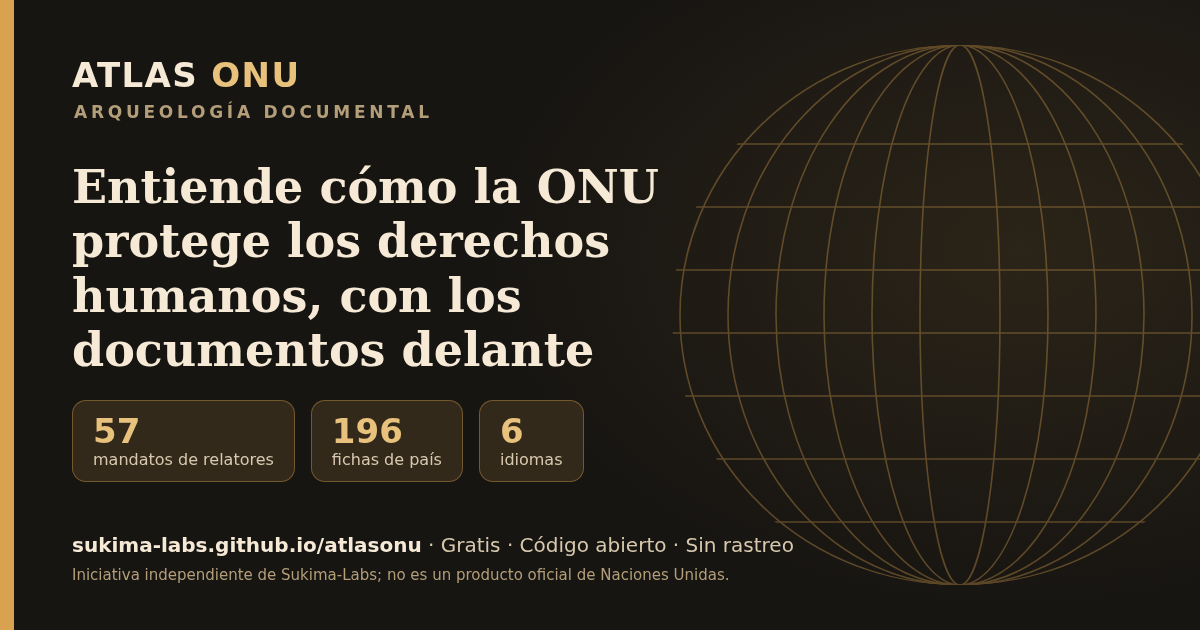
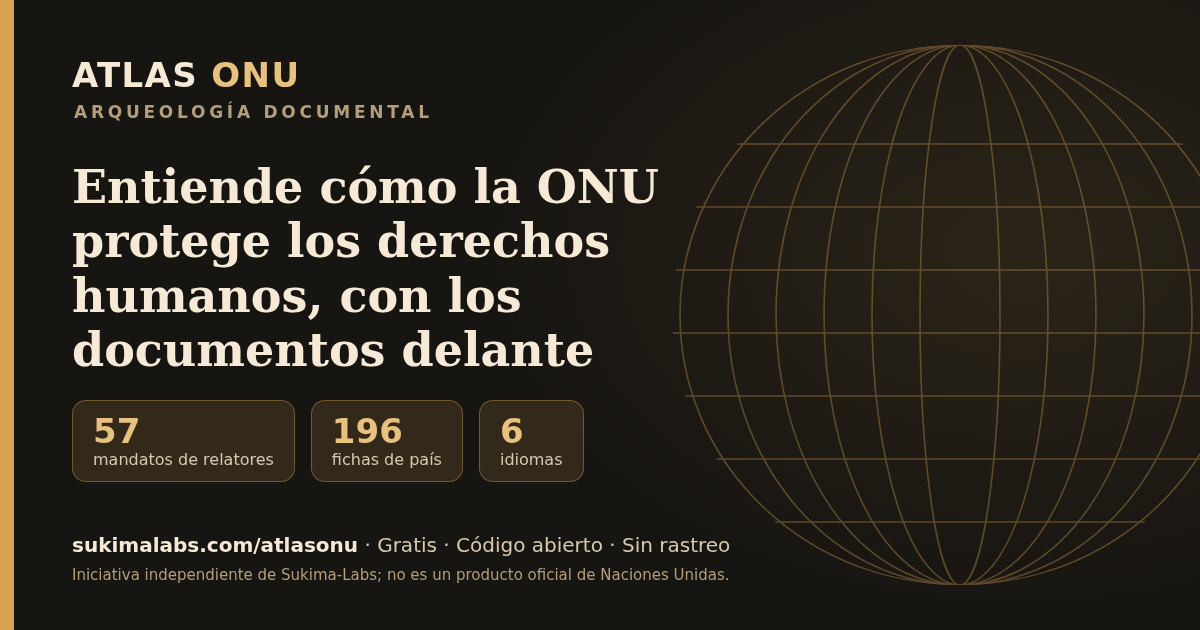
La web pasa a https://sukimalabs.com/atlasonu/: canonical, og, sitemap, robots, citas, docs, marketing e imagen social

Changed region(s): [[0.1233, 0.8444, 0.6783, 0.8746]]

diff --git a/index.html b/index.html
@@ -6,12 +6,12 @@ document.open();document.write('<!DOCTYPE html><html lang="es"><head><meta chars
 var f=document.getElementById('marcoMovil');mide();f.src=u;window.addEventListener('resize',mide);window.addEventListener('message',function(e){if(e.source!==f.contentWindow||!e.data||e.data.atlas!=='hash')return;try{history.replaceState(null,'',location.href.split('#')[0]+(e.data.h||''))}catch(x){}});
 }catch(e){}})();</script><meta name="theme-color" content="#191714"><meta name="color-scheme" content="dark"><title>Atlas ONU · Arqueología documental</title>
 <meta name="description" content="Cómo protege la ONU los derechos humanos, con los documentos delante: mandatos de relatores, tratados, la ficha de cada país, historia y siglas, en lenguaje claro y con enlace a cada fuente oficial. Gratis, sin cuentas ni rastreo.">
-<link rel="canonical" href="https://sukima-labs.github.io/atlasonu/">
+<link rel="canonical" href="https://sukimalabs.com/atlasonu/">
 <meta property="og:type" content="website"><meta property="og:site_name" content="ATLAS ONU"><meta property="og:title" content="ATLAS ONU · Derechos humanos en la ONU, con los documentos delante">
-<meta property="og:description" content="Cómo protege la ONU los derechos humanos, con los documentos delante: mandatos de relatores, tratados, la ficha de cada país, historia y siglas, en lenguaje claro y con enlace a cada fuente oficial. Gratis, sin cuentas ni rastreo."><meta property="og:url" content="https://sukima-labs.github.io/atlasonu/"><meta property="og:locale" content="es_ES">
-<meta property="og:image" content="https://sukima-labs.github.io/atlasonu/assets/social/atlas-onu-og.png"><meta property="og:image:width" content="1200"><meta property="og:image:height" content="630"><meta property="og:image:alt" content="ATLAS ONU, arqueología documental: «Entiende cómo la ONU protege los derechos humanos, con los documentos delante». Mandatos de relatores, fichas de país y seis idiomas.">
-<meta name="twitter:card" content="summary_large_image"><meta name="twitter:image" content="https://sukima-labs.github.io/atlasonu/assets/social/atlas-onu-og.png"><meta name="twitter:image:alt" content="ATLAS ONU, arqueología documental: «Entiende cómo la ONU protege los derechos humanos, con los documentos delante». Mandatos de relatores, fichas de país y seis idiomas.">
-<script type="application/ld+json">{"@context":"https://schema.org","@type":"WebSite","name":"ATLAS ONU","url":"https://sukima-labs.github.io/atlasonu/","inLanguage":["es","en","fr","ar","zh","ru"],"description":"Cómo protege la ONU los derechos humanos, con los documentos delante: mandatos de relatores, tratados, la ficha de cada país, historia y siglas, en lenguaje claro y con enlace a cada fuente oficial. Gratis, sin cuentas ni rastreo.","publisher":{"@type":"Organization","name":"Sukima-Labs"},"license":"https://creativecommons.org/licenses/by/4.0/"}</script><link rel="icon" href="assets/marca/favicon.ico" sizes="32x32"><link rel="icon" type="image/png" sizes="16x16" href="assets/marca/favicon_16.png"><link rel="icon" type="image/png" sizes="32x32" href="assets/marca/favicon_32.png"><link rel="apple-touch-icon" href="assets/marca/apple_touch_icon_180.png">
+<meta property="og:description" content="Cómo protege la ONU los derechos humanos, con los documentos delante: mandatos de relatores, tratados, la ficha de cada país, historia y siglas, en lenguaje claro y con enlace a cada fuente oficial. Gratis, sin cuentas ni rastreo."><meta property="og:url" content="https://sukimalabs.com/atlasonu/"><meta property="og:locale" content="es_ES">
+<meta property="og:image" content="https://sukimalabs.com/atlasonu/assets/social/atlas-onu-og.png"><meta property="og:image:width" content="1200"><meta property="og:image:height" content="630"><meta property="og:image:alt" content="ATLAS ONU, arqueología documental: «Entiende cómo la ONU protege los derechos humanos, con los documentos delante». Mandatos de relatores, fichas de país y seis idiomas.">
+<meta name="twitter:card" content="summary_large_image"><meta name="twitter:image" content="https://sukimalabs.com/atlasonu/assets/social/atlas-onu-og.png"><meta name="twitter:image:alt" content="ATLAS ONU, arqueología documental: «Entiende cómo la ONU protege los derechos humanos, con los documentos delante». Mandatos de relatores, fichas de país y seis idiomas.">
+<script type="application/ld+json">{"@context":"https://schema.org","@type":"WebSite","name":"ATLAS ONU","url":"https://sukimalabs.com/atlasonu/","inLanguage":["es","en","fr","ar","zh","ru"],"description":"Cómo protege la ONU los derechos humanos, con los documentos delante: mandatos de relatores, tratados, la ficha de cada país, historia y siglas, en lenguaje claro y con enlace a cada fuente oficial. Gratis, sin cuentas ni rastreo.","publisher":{"@type":"Organization","name":"Sukima-Labs"},"license":"https://creativecommons.org/licenses/by/4.0/"}</script><link rel="icon" href="assets/marca/favicon.ico" sizes="32x32"><link rel="icon" type="image/png" sizes="16x16" href="assets/marca/favicon_16.png"><link rel="icon" type="image/png" sizes="32x32" href="assets/marca/favicon_32.png"><link rel="apple-touch-icon" href="assets/marca/apple_touch_icon_180.png">
 <style>
 :root{font-family:Inter,system-ui,-apple-system,'Segoe UI',sans-serif;color:#f6ead7;background:#171512;font-size:14px}*{box-sizing:border-box}body{margin:0}button,input,select{font:inherit}a{color:#dbab63;text-decoration:none}a:hover{text-decoration:underline}button{cursor:pointer}.layout{display:grid;grid-template-columns:260px minmax(0,1fr);min-height:100vh}.side{background:#23201b;border-right:1px solid #463f36;padding:28px 17px;position:sticky;top:0;height:100vh;overflow:auto}.brand{font-size:25px;letter-spacing:-1.2px;font-weight:800;color:#fdfaf5}.brand b{color:#daaa63}.subbrand{font-size:11px;color:#c0ae8f;letter-spacing:1.6px;margin:4px 0 36px}.nav button{border:0;background:transparent;color:#cbbca3;display:flex;align-items:center;gap:12px;text-align:left;padding:14px 12px;border-radius:10px;width:100%;margin-bottom:5px;font-weight:600}.sc-tabs{margin:0 0 14px}.franja-dig{display:flex;flex-wrap:wrap;align-items:center;gap:6px 14px;padding:10px 16px;margin-top:26px}.franja-dig h3,.franja-dig p{margin:0}.franja-dig h3{font-size:14px}.franja-dig p{font-size:13px}.nav-grupo{font-size:11px;font-weight:800;letter-spacing:.09em;text-transform:uppercase;color:#a89878;padding:14px 12px 5px;border-top:1px solid #3a342b;margin-top:8px}.nav-grupo:first-child{border-top:0;margin-top:0;padding-top:4px}.nav button.active,.nav button:hover{background:#3c362f;color:white}.sidefooter{font-size:12px;line-height:1.6;color:#b6a17c;padding:20px 12px;border-top:1px solid #463f36;margin-top:28px}.main{min-width:0;min-height:100vh;padding:36px 48px 70px;max-width:1690px;width:100%;margin:auto}.eyebrow{text-transform:uppercase;letter-spacing:2px;font-size:11px;color:#ddb170;font-weight:800}.heading{display:flex;justify-content:space-between;align-items:start;gap:20px}.heading h1{font-size:35px;margin:7px 0 10px;letter-spacing:-1.3px;color:white}.intro{max-width:850px;color:#d1c4ad;line-height:1.65;margin:0 0 24px}.pill{display:inline-block;border:1px solid #5b5143;padding:7px 11px;color:#d7ccb8;border-radius:100px;font-size:11px}.notice{padding:15px 18px;background:#37322b;border-left:3px solid #f1b65a;border-radius:8px;color:#e8d8be;line-height:1.55;margin:23px 0 24px}.cards{display:grid;grid-template-columns:repeat(4,minmax(0,1fr));gap:16px;margin:23px 0}.metric{background:#2c2822;border:1px solid #484137;border-radius:15px;padding:19px}.metric small{font-size:11px;text-transform:uppercase;letter-spacing:.8px;color:#bdaa89}.metric strong{display:block;font-size:30px;color:white;margin-top:7px;letter-spacing:-1px}.metric .hint{font-size:11px;color:#baa684;margin-top:7px}.panels{display:grid;grid-template-columns:1.05fr .95fr;gap:18px;margin:19px 0}.panel{background:#2a2620;border:1px solid #474036;border-radius:15px;padding:23px;min-width:0}.panel h3{margin:0 0 18px;color:#fcf7f0;font-size:16px}.controls{display:grid;grid-template-columns:2fr 1fr 1fr;gap:11px;margin:18px 0}.controls.advanced{grid-template-columns:1.1fr 1fr 1fr 1fr}.field{width:100%;background:#1d1a17;border:1px solid #594f42;color:#fbf7f0;border-radius:9px;padding:12px 13px;outline:none;min-height:43px}.field:focus{border-color:#d7a355;box-shadow:0 0 0 2px #287f8844}.searchlabel{font-size:12px;color:#c8b89d;margin-bottom:7px;display:block}.toolbar{display:flex;flex-wrap:wrap;gap:10px;margin:17px 0}.btn{background:#3f3830;border:1px solid #7e5d2c;border-radius:9px;color:#faf4ec;padding:10px 15px;font-weight:650}.btn.primary{background:#d49c48;color:#211e19;border:0}.btn:hover{filter:brightness(1.15)}.count{color:#ccbda4;font-size:12px;margin-top:14px}.tablewrap{overflow:auto;border-radius:12px;border:1px solid #4d463c}table{width:100%;border-collapse:collapse;text-align:left;min-width:770px}th{font-size:11px;letter-spacing:.9px;color:#cec1a9;background:#3c362f;text-transform:uppercase;padding:14px}td{border-top:1px solid #453e35;padding:13px 14px;vertical-align:top;color:#f1dfc4;line-height:1.5}tr:hover td{background:#353029}.name{color:white;font-weight:650}.tag{font-size:11px;padding:4px 8px;border-radius:6px;background:#50483e;color:#f9f0e3;display:inline-block;max-width:100%;overflow-wrap:anywhere}.tag.high{background:#5c3932;color:#ffc5ad}.tag.warn{background:#4e452b;color:#ffdda1}.linkline{display:flex;gap:10px;flex-wrap:wrap}.linkline a{display:inline-block;border:1px solid #7c5c2c;border-radius:7px;padding:6px 9px;font-size:11px}.empty{padding:28px;color:#cec1a9}.bars{display:flex;align-items:end;justify-content:space-evenly;height:190px;gap:14px;border-bottom:1px solid #695d4e}.barwrap{display:flex;flex:1;height:100%;align-items:end;justify-content:center;gap:5px;flex-direction:column;text-align:center}.bararea{display:flex;align-items:end;justify-content:center;height:150px;width:100%}.bar{background:linear-gradient(180deg,#daaa62,#8d6831);width:40%;min-width:20px;border-radius:6px 6px 0 0}.barwrap label{font-size:11px;color:#d5c9b4;margin:7px 0}.barwrap strong{font-size:12px;color:#fbf6ee}.listline{border-bottom:1px solid #484137;padding:12px 0}.listline:last-child{border:0}.listline strong{color:#faf4ea}.listline p{font-size:12px;color:#bfad8e;margin:6px 0 0;line-height:1.5}.section{display:none}.section.visible{display:block}.detail{background:#28241e;border:1px solid #63584a;border-radius:13px;padding:20px;margin:18px 0}.detail h2{color:#fff;margin:0 0 6px}.detail .meta{color:#c1af90;margin-bottom:17px}.kv{display:grid;grid-template-columns:190px 1fr;border-top:1px solid #4f473d;padding:10px 0;gap:15px}.kv span:first-child{color:#c7b79c}.timeline{border-left:2px solid #936d34;margin:18px 10px;padding-left:20px}.event{padding:2px 0 19px;position:relative}.event:before{content:"";width:10px;height:10px;border-radius:50%;background:#dbac66;position:absolute;left:-26px;top:6px}.event .year{color:#daa95f;font-weight:800}.event .desc{color:#d6cab6;margin:5px 0;font-size:12px;line-height:1.5}.foot{border-top:1px solid #453e35;margin-top:44px;padding-top:15px;color:#b19a73;font-size:12px;line-height:1.6}@media(max-width:1080px){.layout{grid-template-columns:1fr}.side{position:static;height:auto}.nav{display:flex;flex-wrap:wrap}.nav button{width:auto}.nav-grupo{flex:0 0 100%}.main{padding:25px}.cards{grid-template-columns:repeat(2,1fr)}.panels{grid-template-columns:1fr}}@media(max-width:650px){.cards{grid-template-columns:1fr 1fr}.controls,.controls.advanced{grid-template-columns:1fr}.heading h1{font-size:26px}.main{padding:18px}.side{padding:15px}}/* T58 · impresión: solo la pantalla abierta, en claro y sin menús ni botones (antes salían las 20 pantallas sobre fondo oscuro) */@media print{@page{margin:14mm}:root{background:#fff;color:#000;font-size:12px}body{background:#fff!important}:not(svg):not(svg *):not(.mp-sw):not(.mp-esc *){background:transparent!important;color:#000!important;box-shadow:none!important;text-shadow:none!important;border-color:#888!important}.menu-hint,.visbar,.side,.appbar,.scrim,.skip,#arriba,#sgPop,#aviso-carga,.toolbar,.controls,.burger,select,.btn,.sidefooter,.mp-zoom,.mp-tiempo{display:none!important}.mp-sw,.mp-esc i{-webkit-print-color-adjust:exact;print-color-adjust:exact}.layout{display:block}.section{display:none!important}.section.visible{display:block!important}.main{padding:0;max-width:none;margin:0}.tablewrap{overflow:visible;border:0}table{min-width:0;font-size:11px}th{border-bottom:2px solid #000}.panel,.metric,.detail,.notice,.listline,.event,tr,figure,svg{break-inside:avoid}h1,h2,h3{break-after:avoid}.cards{grid-template-columns:repeat(4,1fr)}.panels{grid-template-columns:1fr 1fr}details.lf>*,details.about>*,details.plegable>*{display:block}.foot{border-color:#888}a{text-decoration:underline}}
 .isotipo-sk{display:block;fill:var(--sukima-blanco);margin:0 0 8px}.sello-autoria{margin:28px 0 0;padding:14px 16px;border:1px solid #6b5a3c;border-left:4px solid #daaa63;border-radius:12px;background:#221e19;color:#f1e6d2;font-size:14px;line-height:1.6}.sello-autoria a{color:#e0b87d;font-weight:700;white-space:nowrap}.sidefooter a{display:inline-block;margin-top:8px;color:#e0b87d;font-weight:700}.notice a{color:#f0ddc1}.field[type=number]{appearance:textfield}@media(max-width:650px){.pill{display:none}} .st-ok{background:#12372c;color:#7ff0c3}.st-ok2{background:#322d26;color:#e6c695}.st-bad{background:#4a1d27;color:#ffb3c0}.st-neu{background:#38322b;color:#e0d7c7}.st-warn{background:#4a3a14;color:#ffd98a}td small{color:#c6b69b}td code{word-break:break-all}.about{margin:14px 0 18px;border:1px solid #51493e;background:#292520;border-radius:12px;padding:10px 16px;line-height:1.55}.about summary{cursor:pointer;font-weight:700;color:#e1bb81}.about p{margin:8px 0;color:#f2e1c7}.about b{color:#fff}.pager{margin:8px 0;color:#c6b69b}.trat-grid{display:grid;grid-template-columns:repeat(auto-fill,minmax(190px,1fr));gap:8px;margin:10px 0}.trat{border-radius:10px;padding:8px 10px;border:1px solid #4c443a;background:#221f1b;display:flex;flex-direction:column;gap:2px;font-size:12.5px}.trat b{font-size:13px}.trat span{color:#f2e1c7}.trat i{color:#c3b295;font-style:normal;font-size:11px}.trat-parte{border-color:#2f8a6b;background:#0f2a24}.trat-firma{border-color:#a98225;background:#2a2410}.trat-no{opacity:.75}.tags{display:flex;flex-wrap:wrap;gap:6px;margin:6px 0 10px}.about summary u{color:#c3b295;text-decoration:none;font-weight:400}.org-band{margin:12px 0}.org-label{font-size:12px;letter-spacing:.06em;text-transform:uppercase;color:#c3b295;margin-bottom:6px}.org-row{display:flex;flex-wrap:wrap;gap:8px}.org-node{flex:1 1 170px;max-width:260px;text-align:left;border:1px solid #4c443a;background:#221f1b;color:#f6ead7;border-radius:10px;padding:10px 12px;cursor:pointer;display:flex;flex-direction:column;gap:3px;font:inherit}.org-node b{font-size:14px}.org-node .ag-full{color:#f6ead7}.ag-nom{font-size:17px;margin:6px 0}.ag-nombres{display:flex;flex-direction:column;gap:4px}.ag-n small{display:inline-block;min-width:64px;color:#c7b79c}.org-node span{font-size:12px;color:#c6b69b}.org-node:hover{border-color:#e1bb81}.org-node.sel{border-color:#e1bb81;background:#292520;box-shadow:0 0 0 2px #4a4339}.org-node:focus-visible{outline:2px solid #e1bb81;outline-offset:2px}@media(max-width:650px){.org-node{max-width:none;flex-basis:100%}}@media(max-width:650px){#sisDetalle .kv,#sisSimOut .kv,#sisGuia .kv{display:block}#sisDetalle .kv>span,#sisSimOut .kv>span{display:block;margin-top:8px;color:#c3b295}}button.trat{font:inherit;color:inherit;text-align:left;cursor:pointer}button.trat:hover{border-color:#e1bb81}ol.ciclo{margin:8px 0 0;padding-left:20px}ol.ciclo li{margin:4px 0}.tag.ok{background:#12372c;color:#7ff0c3}mark{background:#6b5a14;color:#fff;border-radius:3px;padding:0 2px}.btn.hit{border-color:#e6c14a}@media(max-width:650px){.trat-grid{grid-template-columns:repeat(2,minmax(0,1fr))}.trat{padding:6px 8px}}.visbar{display:flex;align-items:center;gap:18px;flex-wrap:wrap;margin:0 0 18px;padding:10px 18px;border:1px solid rgba(225,187,129,.28);border-radius:14px;background:linear-gradient(135deg,rgba(50,45,39,.78),rgba(31,27,23,.88));-webkit-backdrop-filter:blur(8px);backdrop-filter:blur(8px);box-shadow:0 6px 24px rgba(0,0,0,.28);position:static;z-index:1}.vis-item{display:flex;align-items:center;gap:10px}.vis-item b{display:block;font-size:20px;font-variant-numeric:tabular-nums;color:#fff;line-height:1.1}.vis-item small{color:#c6b69b;font-size:11px;letter-spacing:.05em;text-transform:uppercase}.vis-flag{font-size:28px;line-height:1}.vis-ic{width:34px;height:34px;border-radius:10px;background:#2e2923;display:grid;place-items:center;color:#e1bb81}.vis-sep{width:1px;height:30px;background:rgba(255,255,255,.12)}.vis-info{margin-left:auto;background:none;border:1px solid #4c443a;color:#c6b69b;border-radius:50%;width:26px;height:26px;cursor:pointer;font:inherit;line-height:1}.vis-info:hover{color:#e1bb81;border-color:#e1bb81}.visbar.lista:before{content:"";width:8px;height:8px;border-radius:50%;background:#3ddc97;box-shadow:0 0 0 0 rgba(61,220,151,.6);animation:vispulso 2s infinite}@keyframes vispulso{70%{box-shadow:0 0 0 8px rgba(61,220,151,0)}100%{box-shadow:0 0 0 0 rgba(61,220,151,0)}}@media(prefers-reduced-motion:reduce){.visbar.lista:before{animation:none}}

diff --git a/marketing/contenidos/01_presentacion_es.md b/marketing/contenidos/01_presentacion_es.md
@@ -13,16 +13,16 @@ Hemos hecho **ATLAS ONU** para eso: un atlas en español, gratuito y sin rastreo
 
 Cada dato enlaza a la fuente oficial, y cuando algo es inferido, lo dice. Código abierto (AGPL), contenido CC BY 4.0, {{idiomas}} idiomas.
 
-Pruébalo, y si falta algo, dínoslo: https://sukima-labs.github.io/atlasonu/
+Pruébalo, y si falta algo, dínoslo: https://sukimalabs.com/atlasonu/
 
 Iniciativa académica independiente; no es un producto oficial de la ONU ni de ninguna universidad.
 #DerechosHumanos #ONU #DatosAbiertos
 
 ## Versión corta (Mastodon/Bluesky, ≤ 300 caracteres)
-Hemos publicado ATLAS ONU: un atlas en español, gratuito y sin rastreo, de los mandatos de relatores, tratados y fichas de {{paises}} países de la ONU, con el documento oficial enlazado en cada dato. Código abierto. https://sukima-labs.github.io/atlasonu/ #DerechosHumanos #DatosAbiertos
+Hemos publicado ATLAS ONU: un atlas en español, gratuito y sin rastreo, de los mandatos de relatores, tratados y fichas de {{paises}} países de la ONU, con el documento oficial enlazado en cada dato. Código abierto. https://sukimalabs.com/atlasonu/ #DerechosHumanos #DatosAbiertos
 
 ## Hilo (X, 5 mensajes)
-1. ¿Cómo encuentras la resolución de la ONU que creó un mandato de relator? Hemos hecho ATLAS ONU: gratis, en español, sin rastreo y con cada dato enlazado a su fuente. 🧵 https://sukima-labs.github.io/atlasonu/
+1. ¿Cómo encuentras la resolución de la ONU que creó un mandato de relator? Hemos hecho ATLAS ONU: gratis, en español, sin rastreo y con cada dato enlazado a su fuente. 🧵 https://sukimalabs.com/atlasonu/
 2. Empieza como hablas: «desaparecidos», «niños migrantes», «comida». Entiende sinónimos en español e inglés y corrige erratas.
 3. {{mandatos}} mandatos vigentes y los {{actos}} actos que los crearon y prorrogaron; {{localizados}} localizados en la Biblioteca Digital, y lo que no, con su motivo.
 4. Ficha de {{paises}} países: tratados ratificados, EPU, observaciones finales y visitas. Y un mapa que los colorea por lo que han aceptado.

diff --git a/docs/CONTEXTO_PARA_NUEVAS_SESIONES.md b/docs/CONTEXTO_PARA_NUEVAS_SESIONES.md
@@ -5,8 +5,8 @@ Lee esto primero si abres una sesión de Claude Code sobre este repositorio, en 
 ## Qué es
 **ATLAS ONU – Arqueología documental**: plataforma independiente y sin fines de lucro, sobre el sistema de derechos humanos de la ONU (mandatos de procedimientos especiales, tratados y comités, países, historia, siglas). Autoría: Sukima-Labs (es lo único que debe figurar como autor). No es oficial de la ONU.
 
-- **Estado desde el 06-11-2026: el repositorio es público** y la web vuelve a estar en GitHub Pages (https://sukima-labs.github.io/atlasonu/). La búsqueda en vivo corre en `sk-atlas` y la actualización de datos en GitHub Actions; en el mini PC solo se desarrolla. Reglas de infraestructura: `CLAUDE.md` en la raíz.
-- Repositorio: `sukima-labs/atlasonu` (se llamaba `onu-arqueologia-documental` hasta el 08-11-2026; GitHub redirige el nombre viejo y la web vieja reenvía a la nueva desde la portada `sukima-labs.github.io`). Flujo habitual: rama de trabajo → PR → fusión en `main`.
+- **Estado desde el 06-11-2026: el repositorio es público** y la web vuelve a estar en GitHub Pages (https://sukimalabs.com/atlasonu/). La búsqueda en vivo corre en `sk-atlas` y la actualización de datos en GitHub Actions; en el mini PC solo se desarrolla. Reglas de infraestructura: `CLAUDE.md` en la raíz.
+- Repositorio: `sukima-labs/atlasonu` (se llamaba `onu-arqueologia-documental` hasta el 08-11-2026; GitHub redirige el nombre viejo y la web vieja reenvía a la nueva desde la portada `sukima-labs.github.io`). Desde el 11-11-2026 la web está en `https://sukimalabs.com/atlasonu/` (dominio propio; `sukima-labs.github.io/atlasonu/` redirige con 301. Flujo habitual: rama de trabajo → PR → fusión en `main`.
 
 ## Cómo está hecho
 Sitio estático: `index.html` + `data/atlas-data.js` y `data/atlas-actos.js` (generados; el segundo lleva el índice de actos y se carga aparte) + archivos diferidos `data/paises/<ISO>.js` y `data/tratados/<id>.js`. Datos oficiales con Python (`scripts/`), pruebas con Node y Playwright.

diff --git a/README.md b/README.md
@@ -3,7 +3,7 @@
 Plataforma académica independiente para investigar los procedimientos especiales de la ONU y recuperar sus documentos originales **con verificación contra la fuente oficial**.
 
 **Para quién:** estudiantes, investigadoras e investigadores y organizaciones que necesitan encontrar y citar documentos del sistema de derechos humanos de la ONU (mandatos, tratados y comités, países, historia, siglas) sin perderse en su catalogación.
-**Cómo contribuir:** ver [CONTRIBUTING.md](CONTRIBUTING.md). **Sitio:** https://sukima-labs.github.io/atlasonu/ (también se abre en local con `index.html`).
+**Cómo contribuir:** ver [CONTRIBUTING.md](CONTRIBUTING.md). **Sitio:** https://sukimalabs.com/atlasonu/ (también se abre en local con `index.html`).
 
 **Autoría:** Sukima-Labs · © 2026. **Licencias:** código bajo [AGPL-3.0](LICENSE) con autoría obligatoria ([NOTICE](NOTICE.md)); contenido propio bajo [CC BY 4.0](LICENSE-CONTENIDO.md); los datos y textos de la ONU no se relicencian (ver [análisis](docs/LICENCIA.md)).
 **Aviso:** iniciativa académica independiente. No es un producto oficial de Naciones Unidas ni de la Universidad de Alcalá.
@@ -36,7 +36,7 @@ Dos veces al día (12:17 y 00:17 hora de España en invierno; 13:17 y 01:17 en v
 
 ## Abrir
 Abrir `index.html` en cualquier navegador (también sin conexión: los datos van en `data/atlas-data.js` y `data/atlas-actos.js`).
-**Web pública:** https://sukima-labs.github.io/atlasonu/ (si alguna vez se despublica, para volver a publicarla: Settings → Pages → *Build and deployment* → Source: **Deploy from a branch** → Branch: `main`, carpeta `/ (root)` → Save; tarda ~1 minuto).
+**Web pública:** https://sukimalabs.com/atlasonu/ (si alguna vez se despublica, para volver a publicarla: Settings → Pages → *Build and deployment* → Source: **Deploy from a branch** → Branch: `main`, carpeta `/ (root)` → Save; tarda ~1 minuto).
 
 ## Estructura
 | Ruta | Contenido |

diff --git a/marketing/contenidos/07_reddit.md b/marketing/contenidos/07_reddit.md
@@ -17,7 +17,7 @@ Hi all, I'm part of the team behind ATLAS ONU. We got tired of not knowing wheth
 
 It is independent (not an official UN product), AGPL-3.0, no tracking or accounts, interface in the six UN languages (the main one is Spanish). Where something is inferred or missing it says so. Known limits: only current mandates, translations still need native review.
 
-Site: https://sukima-labs.github.io/atlasonu/ · Code: https://github.com/sukima-labs/atlasonu
+Site: https://sukimalabs.com/atlasonu/ · Code: https://github.com/sukima-labs/atlasonu
 I'd really like to know what's missing or wrong, especially from people who cite UN documents for work.
 
 ## Pieza B · español (comunidades de derecho, estudiantes o derechos humanos; revisar reglas de cada una)
@@ -26,7 +26,7 @@ I'd really like to know what's missing or wrong, especially from people who cite
 **Texto:**
 Formo parte del equipo de ATLAS ONU. Lo hicimos porque encontrar la resolución que creó un mandato de relator, o saber si un documento es resolución, informe o borrador, suele ser un laberinto. Reúne {{mandatos}} mandatos vigentes, los {{actos}} actos que los crearon o prorrogaron (contrastados con la Biblioteca Digital de la ONU), la ficha de {{paises}} países, tratados y siglas, con cita APA y enlace a la fuente oficial en cada dato. Gratis, sin cuentas ni rastreo, en seis idiomas.
 
-Es una iniciativa independiente, no oficial de la ONU ni de ninguna universidad. https://sukima-labs.github.io/atlasonu/ (código: https://github.com/sukima-labs/atlasonu).
+Es una iniciativa independiente, no oficial de la ONU ni de ninguna universidad. https://sukimalabs.com/atlasonu/ (código: https://github.com/sukima-labs/atlasonu).
 Si lo usáis para un trabajo o un caso, me encantaría saber qué os falta.
 
 ## Respuestas tipo (para hilos donde alguien pregunta algo que ATLAS resuelve)

diff --git a/docs/PATRICIO_SK_ATLAS.md b/docs/PATRICIO_SK_ATLAS.md
@@ -10,7 +10,7 @@ Código: `scripts/mini_pc/busqueda_servicio.py` (biblioteca estándar, sin depen
 | `/salud` | GET | Comprobación de estado |
 | `/buscar?q=<texto>[&ln=es\|en]` | GET | Consulta la Biblioteca Digital de la ONU y devuelve JSON con símbolo, título, fecha y enlaces a archivos |
 | `/visitas?pais=XX` | GET | Lee el contador (total y del país) |
-| `/visita?pais=XX` | GET | Suma una visita, **solo** si la cabecera `Origin` es `https://sukima-labs.github.io` |
+| `/visita?pais=XX` | GET | Suma una visita, **solo** si la cabecera `Origin` es la de la web: `https://sukimalabs.com` (desde el 11-11-2026), `https://www.sukimalabs.com` o la antigua `https://sukima-labs.github.io`, que redirige a la nueva |
 
 ## Variables de entorno
 | Variable | Por defecto | Uso |
@@ -20,7 +20,7 @@ Código: `scripts/mini_pc/busqueda_servicio.py` (biblioteca estándar, sin depen
 
 ## Límites incorporados (no hace falta replicarlos en el proxy)
 - Escucha solo en `127.0.0.1`: sin Funnel o proxy, nadie de fuera llega.
-- CORS: solo se acepta el origen `https://sukima-labs.github.io`.
+- CORS: solo se aceptan los orígenes de la web: `https://sukimalabs.com` y `https://www.sukimalabs.com` (desde el 11-11-2026) y el antiguo `https://sukima-labs.github.io` (redirige con 301 a `https://sukimalabs.com/atlasonu/`).
 - Hasta 20 consultas nuevas a la ONU por minuto (todas las visitas juntas); caché en memoria de 1 h y 500 entradas.
 - Hasta 120 visitas sumadas por minuto en total.
 - Escritura del contador atómica (archivo temporal y reemplazo).

diff --git a/marketing/contenidos/03_correo_docentes.md b/marketing/contenidos/03_correo_docentes.md
@@ -10,7 +10,7 @@ Le escribimos desde Sukima-Labs. Hemos publicado ATLAS ONU, un atlas gratuito y 
 
 Pensamos que podría ahorrar a su alumnado el rato de «¿esto es una resolución o un informe?»: de una pregunta en lenguaje normal se llega al documento y a su cita APA.
 
-Si le parece útil, le ofrecemos una sesión de 15 minutos para enseñárselo con un ejemplo de su materia, o simplemente que lo pruebe aquí: https://sukima-labs.github.io/atlasonu/ . Y si echa algo en falta, le agradeceríamos mucho que nos lo dijera: lo corregimos.
+Si le parece útil, le ofrecemos una sesión de 15 minutos para enseñárselo con un ejemplo de su materia, o simplemente que lo pruebe aquí: https://sukimalabs.com/atlasonu/ . Y si echa algo en falta, le agradeceríamos mucho que nos lo dijera: lo corregimos.
 
 Un saludo,
 Sukima-Labs

diff --git a/NOTICE.md b/NOTICE.md
@@ -1,7 +1,7 @@
 # Aviso de autoría y términos adicionales (AGPL-3.0, sección 7)
 
 **ATLAS ONU – Arqueología documental** · © 2026 Sukima-Labs
-Proyecto original: <https://sukima-labs.github.io/atlasonu/> · Código fuente: <https://github.com/sukima-labs/atlasonu>
+Proyecto original: <https://sukimalabs.com/atlasonu/> · Código fuente: <https://github.com/sukima-labs/atlasonu>
 
 El código se publica bajo la **GNU Affero General Public License v3.0, solo la versión 3** (AGPL-3.0-only; texto oficial, sin cambios, en `LICENSE`). Este programa es software libre: puede redistribuirse y modificarse bajo esa licencia y estos términos, y se distribuye SIN GARANTÍA. Conforme a su sección 7, se añaden estos términos, que rigen toda copia, versión modificada o servicio basado en este código:
 

diff --git a/marketing/MENSAJES.md b/marketing/MENSAJES.md
@@ -31,7 +31,7 @@ Claro, sobrio, útil. Sin grandilocuencia («revolucionario»), sin urgencia fab
 ## Nombres y etiquetas
 - Nombre: **ATLAS ONU**; subtítulo «Arqueología documental». En inglés: *ATLAS ONU – UN human rights, with the documents in hand*.
 - Etiquetas: `#DerechosHumanos` `#ONU` `#DatosAbiertos` `#RelatoresEspeciales` `#DIDH`. En inglés: `#HumanRights` `#OpenData` `#SpecialProcedures`.
-- Enlace principal: https://sukima-labs.github.io/atlasonu/ · Código: https://github.com/sukima-labs/atlasonu
+- Enlace principal: https://sukimalabs.com/atlasonu/ · Código: https://github.com/sukima-labs/atlasonu
 
 ## Aviso que va en toda pieza larga
 > Iniciativa académica independiente. No es un producto oficial de Naciones Unidas ni de ninguna universidad.

diff --git a/marketing/contenidos/04_show_hn.md b/marketing/contenidos/04_show_hn.md
@@ -4,7 +4,7 @@ Antes de publicar: probar la web en un navegador limpio y por el camino público
 
 **Título:** Show HN: ATLAS ONU – UN human rights mandates and documents, linked to the source
 
-**URL:** https://sukima-labs.github.io/atlasonu/
+**URL:** https://sukimalabs.com/atlasonu/
 
 **Primer comentario (del autor):**
 Hi HN. This is a free, open-source (AGPL-3.0) static site that maps the UN human rights system for people who don't know it: {{mandatos}} special-procedure mandates, the {{actos}} legal acts that created or renewed them, {{paises}} country profiles, {{tratados}} treaties, an acronym glossary and a timeline. It is Spanish-first (the interface is in all six UN languages; official data is shown as the UN publishes it).

diff --git a/CLAUDE.md b/CLAUDE.md
@@ -9,7 +9,7 @@ donde sea. Antes de empezar, lee también `docs/CONTEXTO_PARA_NUEVAS_SESIONES.md
 - la **búsqueda en vivo** corre en el servidor de sukima-labs, en el contenedor `sk-atlas` (servicio
   `atlas-busqueda`, publicado en `https://sk-atlas.pig-mimosa.ts.net`);
 - la **actualización de datos** corre en GitHub Actions;
-- la **web** está en GitHub Pages: https://sukima-labs.github.io/atlasonu/
+- la **web** está en GitHub Pages: https://sukimalabs.com/atlasonu/
 
 **Infraestructura** es todo lo que se queda corriendo o se expone: servicios y temporizadores de systemd
 (también los de usuario), cron, servidores o puertos abiertos, túneles o Funnel, DNS, la configuración de

diff --git a/docs/PARA_PATRICIO.md b/docs/PARA_PATRICIO.md
@@ -5,7 +5,7 @@ Documento de traspaso para quien lleva la infraestructura (con `maquina`, el Cla
 ## 1. Qué es
 **ATLAS ONU – Arqueología documental**: plataforma independiente y sin fines de lucro sobre el sistema de derechos humanos de la ONU (mandatos, tratados y comités, países, historia, siglas). La autoría es solo Sukima-Labs. No es oficial de la ONU. Todo lo oficial se atribuye y se enlaza a la ONU.
 
-Repositorio público: `sukima-labs/atlasonu`. Web: https://sukima-labs.github.io/atlasonu/
+Repositorio público: `sukima-labs/atlasonu`. Web: https://sukimalabs.com/atlasonu/
 
 ## 2. Qué corre y dónde (desde el 06-11-2026)
 
